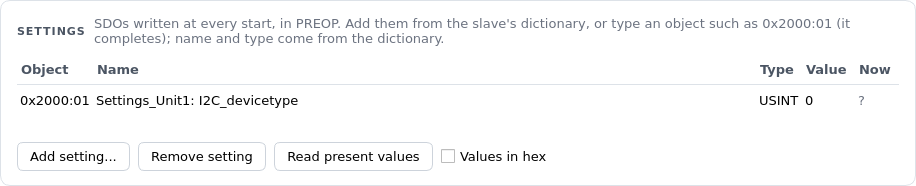
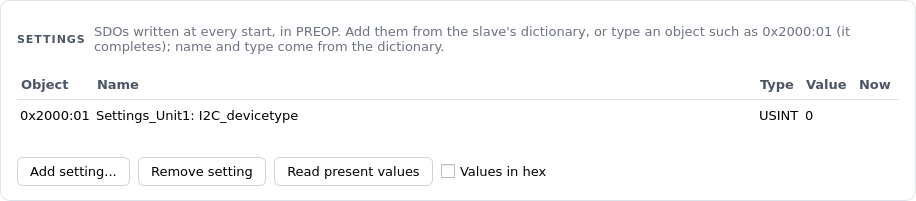
scripts/docs-screenshots: the window's screenshots taken again with one command
Offscreen against the GUI tests' fake bus, with no event log, English
messages and only the shipped quirk files; the HAL pages with a three-joint
machine in a temporary folder. It reproduces the pictures in docs/images
(the Settings card is retaken: its Now column is empty now).

diff --git a/docs/development.md b/docs/development.md
@@ -26,6 +26,13 @@ scripts/build-deb.sh -w -o <dir>           # package from the working tree
   records and the errors.
 - The window's tests run offscreen against a fake bus and are skipped
   without PyQt5.
+- `scripts/docs-screenshots [NAME ...]` takes the window's screenshots in
+  `docs/images` again, offscreen against the same fake bus (no event log,
+  English messages, only the quirk files that come with the program; the
+  HAL pages with a three-joint machine "mill" in a temporary folder). Take
+  them again when the window changes, look at them, and keep an unchanged
+  picture out of the commit (`gui-hal-apply` shows the temporary folder's
+  name).
 - **Fake slaves from a capture** ([A capture of the
   bus](ecatsetup.md#a-capture-of-the-bus)). In Python, `capture.Replay`
   answers the ethercat tool's calls from a capture
